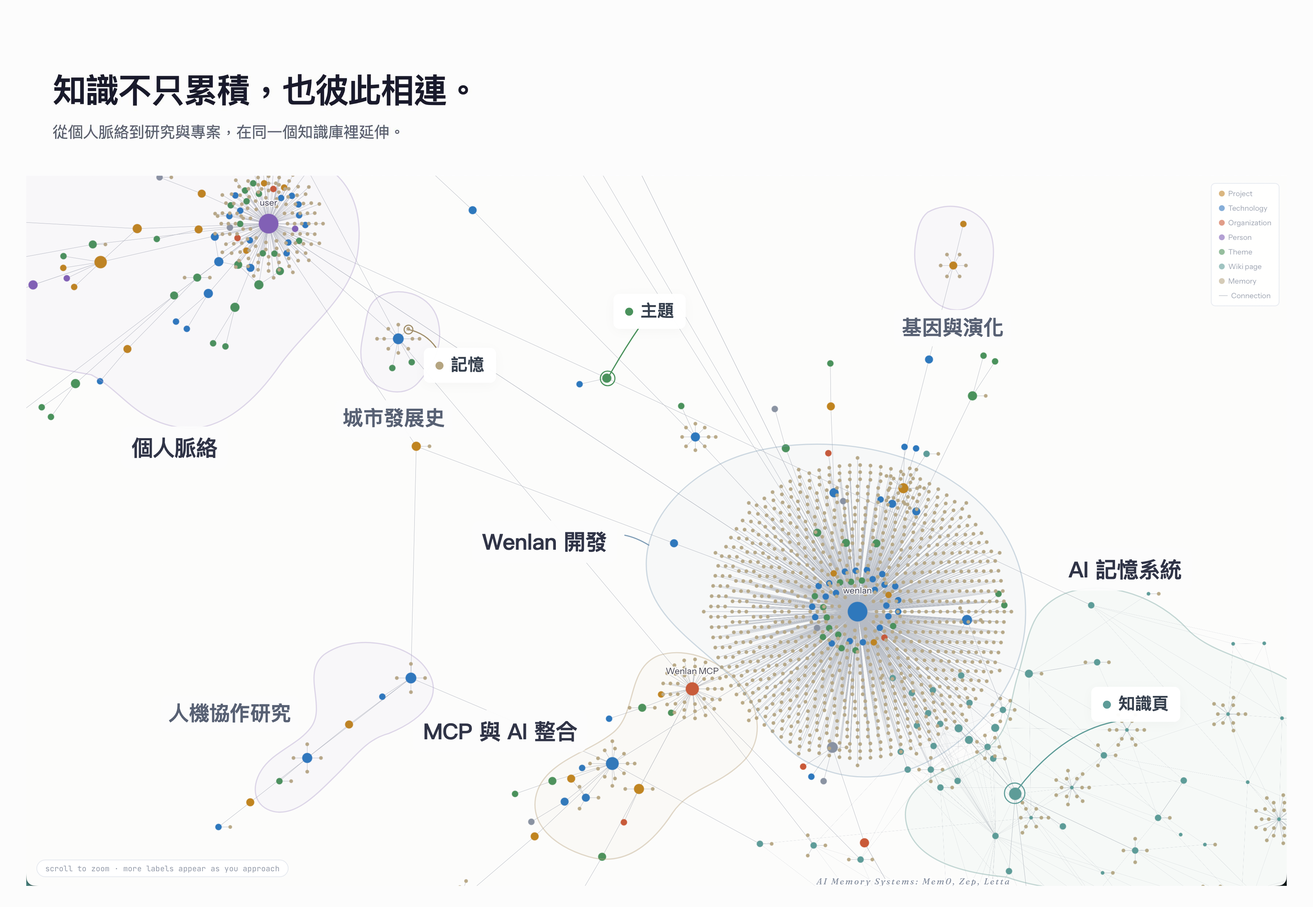
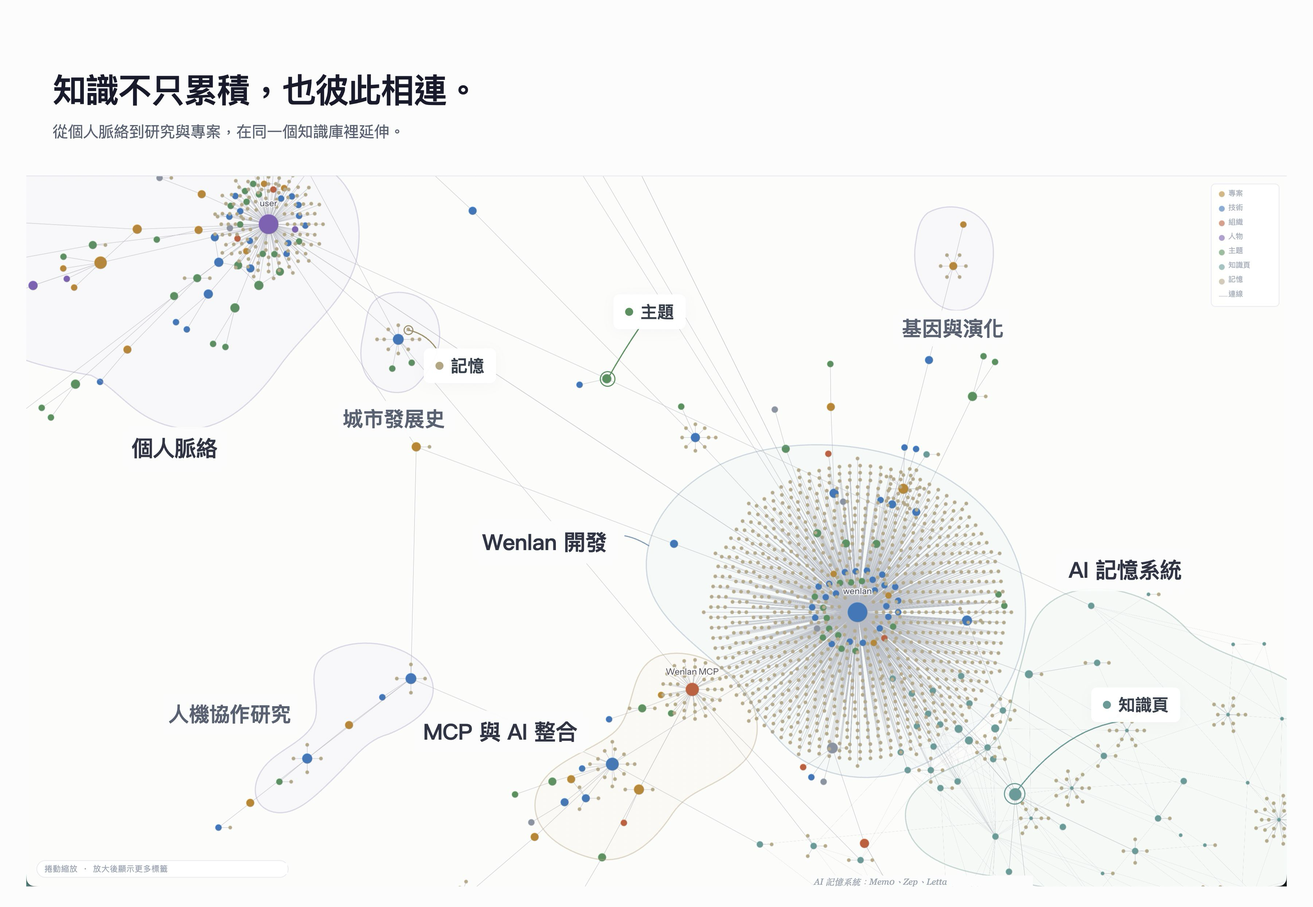
docs: localize README product visuals and refine copy

diff --git a/README.md b/README.md
@@ -30,11 +30,11 @@
 <!-- Replace the linked walkthrough when the separately produced release video is ready. -->
 <p align="center">
   <a href="https://github.com/user-attachments/assets/35f06749-00e5-484d-a9f4-5e462de8d11e">
-    <img src="./docs/assets/wenlan-personal-knowledge-zh-Hant.png" alt="Connected pages, memories, and sources in Wenlan" width="100%">
+    <img src="./docs/assets/wenlan-personal-knowledge.png" alt="Connected pages, memories, and sources in Wenlan" width="100%">
   </a>
   <br><a href="https://github.com/user-attachments/assets/35f06749-00e5-484d-a9f4-5e462de8d11e">▶ Watch the video</a>
 </p>
-<p>Composite of App views with demo data; the graph is illustrative, not a native three-column layout.</p>
+<p>Localized composite of App views with demo data; the graph is illustrative, not a native three-column layout.</p>
 
 <a id="quickstart"></a>
 <a id="start-in-30-seconds"></a>
@@ -66,7 +66,7 @@ Choose **Open notes** to enter Wenlan. Explore the sample from the welcome scree
 
 ### 3. Connect an AI tool when you want
 
-Use the Claude Code or Codex plugin, or connect Cursor, Claude Desktop, VS Code, or Gemini CLI over MCP ([setup guide](docs/setup-with-ai.md)). Your connected AI can use saved knowledge and write Pages without another local language model. Optional background organization and automatic Page updates need a separately configured [model](docs/setup-and-data.md#models).
+Use the Claude Code or Codex plugin, or connect Cursor, Claude Desktop, VS Code, or Gemini CLI over MCP ([setup guide](docs/setup-with-ai.md)). Your connected AI can use saved knowledge and write pages without another local language model. Optional background organization and automatic page updates need a separately configured [model](docs/setup-and-data.md#models).
 
 > Use my earlier notes to help me finish this task.
 
@@ -86,19 +86,19 @@ Start with one saved note or imported document. Ask the AI to cite what it uses,
 
 ## Organize scattered material into knowledge
 
-Edit **Markdown Pages with citations** and link related content through `[[wikilinks]]`. Follow a citation to check the original document, conversation, or saved Memory behind an idea.
+Edit **Markdown pages with citations** and link related content through `[[wikilinks]]`. Follow a citation to check the original document, conversation, or saved memory behind an idea.
 
 - **File and conversation imports:** Import Markdown, text, text-based PDFs, folders, and ChatGPT or Claude export ZIPs while retaining source references. Scanned PDFs need text extraction before import. Chat imports preserve a snapshot; registered file sources can refresh from disk.
 - **Read-only Obsidian connection:** Read an existing vault and refresh it on demand without modifying its files or syncing changes back.
-- **Quick Capture and atomic Memories:** Save one decision, lesson, or preference at a time in the app or through your AI, with its source.
-- **Knowledge graph:** Discover related topics through typed Entities, relations, and knowledge clusters (communities); a configured enrichment model links repeated mentions to the same entity (mention resolution).
+- **Quick Capture and atomic memories:** Save one decision, lesson, or preference at a time in the app or through your AI, with its source.
+- **Knowledge graph:** Discover related topics through typed entities, relations, and knowledge clusters (communities); a configured enrichment model links repeated mentions to the same entity (mention resolution).
 
 <a id="explore-your-personal-knowledge-graph"></a>
 
 <p align="center">
-  <img src="./docs/assets/wenlan-personal-graph-zh-Hant.png" alt="Wenlan knowledge graph with illustrative regions for personal interests, research, and development" width="100%">
+  <img src="./docs/assets/wenlan-personal-graph.png" alt="Wenlan knowledge graph with illustrative regions for personal interests, research, and development" width="100%">
 </p>
-<p>App nodes and connections; region names and boundaries are illustrative.</p>
+<p>App nodes and connections; translated labels and illustrative regions.</p>
 
 <a id="how-wenlan-works"></a>
 <a id="how-does-it-work"></a>
@@ -114,8 +114,8 @@ Edit **Markdown Pages with citations** and link related content through `[[wikil
 Reuse earlier findings and save new lessons. **Plugins** guide your AI on when to search and save; **MCP-only connections** provide tools the AI can call as needed or at your request.
 
 - **[Local hybrid retrieval](docs/technical-foundations.md#retrieval-pipeline):** Find exact terms and similar meaning with SQLite FTS5 and BGE embeddings, fused by weighted Reciprocal Rank Fusion (RRF); base search needs no API key.
-- **Graph-assisted ranking:** Rank related Memories higher when Entity links are available, with optional cross-encoder reranking to refine relevance.
-- **Plugin workflow:** Find context with `/recall`, save decisions with `/capture`, synthesize Pages with `/distill`, and leave progress and open questions with `/handoff` ([commands](plugin/skills/README.md)).
+- **Graph-assisted ranking:** Rank related memories higher when entity links are available, with optional cross-encoder reranking to refine relevance.
+- **Plugin workflow:** Find context with `/recall`, save decisions with `/capture`, synthesize pages with `/distill`, and leave progress and open questions with `/handoff` ([commands](plugin/skills/README.md)).
 - **Space-scoped retrieval:** Select a Space to limit returned knowledge to the relevant project or personal collection.
 
 <p align="center">
@@ -138,25 +138,25 @@ Experimental web access lets supported web clients search the whole library or o
 
 ## Keep knowledge current, with its history
 
-- **Steep background enrichment:** With a [configured model](docs/setup-and-data.md#models), prepare captured Memories for reuse with types, structured details, search cues, and graph links; Page synthesis is optional.
-- **[Revision review and history](docs/knowledge-guide.md#updates-and-history):** Compare Page versions and trace Memory replacements; automatic refresh updates eligible machine-maintained Pages directly and proposes revisions for Pages you edited.
-- **Wiki export:** Export eligible Pages as an Open Knowledge Format (OKF) wiki.
+- **Steep background enrichment:** With a [configured model](docs/setup-and-data.md#models), prepare captured memories for reuse with types, structured details, search cues, and graph links; page synthesis is optional.
+- **[Revision review and history](docs/knowledge-guide.md#updates-and-history):** Compare page versions and trace memory replacements; automatic refresh updates eligible machine-maintained pages directly and proposes revisions for pages you edited.
+- **Wiki export:** Export eligible pages as an Open Knowledge Format (OKF) wiki.
 - **Choose the model runtime:** Run enrichment and synthesis with on-device Qwen (llama.cpp), local OpenAI-compatible servers such as Ollama or LM Studio, or configured cloud providers.
 
 <p align="center">
-  <img src="./docs/assets/wenlan-updates-history-zh-Hant.png" alt="Illustrative flow: a finding in a source document updates memory from V1 to V2, then informs a knowledge page that is either updated automatically or sent for review." width="100%">
+  <img src="./docs/assets/wenlan-updates-history.png" alt="Illustrative flow: a finding in a source document updates memory from V1 to V2, then informs a knowledge page that is either updated automatically or sent for review." width="100%">
 </p>
-<p>App views with demo data; connections and labels are illustrative.</p>
+<p>Localized App-view composite with demo data; connections are illustrative.</p>
 
-Automatic refresh rejects drafts without enough citations; direct file edits and forced regeneration follow different review rules.
+Automatic refresh rejects drafts without enough citations.
 
 <a id="architecture"></a>
 
 ## Architecture
 
-**One local knowledge base.** App, CLI, and connected AI tools read and write through Wenlan’s local service. Pages are Markdown files; Memories, relationships, and search indexes live in local libSQL.
+**One local knowledge base.** App, CLI, and connected AI tools read and write through Wenlan’s local service. Pages are Markdown files; memories, relationships, and search indexes live in local libSQL.
 
-**Updates follow citations.** When a cited Source or Memory changes or is removed in Wenlan, evidence tracking marks affected Pages. With background AI enabled and a model available, eligible Pages refresh under the update and review rules.
+**Updates follow citations.** When a cited source or memory changes or is removed in Wenlan, evidence tracking marks affected pages. With background AI enabled and a model available, eligible pages refresh under the update and review rules.
 
 <p align="center">
   <img src="./docs/assets/wenlan-architecture.png" alt="Architecture overview: App and AI tools share a local knowledge base, with optional background enrichment models." width="100%">

diff --git a/README.es-ES.md b/README.es-ES.md
@@ -1,4 +1,4 @@
-<!-- README_SYNC: source=README.md sha256=e8a500b455136eae8a677b856b81fea50a11c1f07074592b8cda08678daf7fe2 -->
+<!-- README_SYNC: source=README.md sha256=f927704bc4df94ee55e6503a39f280bbc0958551c832cb2db0d235d10dfb5285 -->
 
 <p align="center">
   <picture>
@@ -68,7 +68,7 @@ Elige **Open notes** para entrar en Wenlan. Explora el ejemplo de bienvenida o c
 
 ### 3. Conecta una herramienta de IA cuando quieras
 
-Usa el plugin de Claude Code o Codex, o conecta Cursor, Claude Desktop, VS Code o Gemini CLI mediante MCP ([guía de configuración](docs/setup-with-ai.md)). Tu IA conectada puede usar los conocimientos guardados y redactar Páginas sin otro modelo de lenguaje local. La organización en segundo plano y las actualizaciones automáticas opcionales requieren un [modelo configurado por separado](docs/setup-and-data.es-ES.md#models).
+Usa el plugin de Claude Code o Codex, o conecta Cursor, Claude Desktop, VS Code o Gemini CLI mediante MCP ([guía de configuración](docs/setup-with-ai.md)). Tu IA conectada puede usar los conocimientos guardados y redactar páginas sin otro modelo de lenguaje local. La organización en segundo plano y las actualizaciones automáticas opcionales requieren un [modelo configurado por separado](docs/setup-and-data.es-ES.md#models).
 
 > Usa mis notas anteriores para ayudarme a terminar esta tarea.
 
@@ -89,12 +89,12 @@ Empieza con una nota guardada o un documento importado. Pide a la IA que cite lo
 
 ## Organiza la información dispersa en conocimiento
 
-Edita **Páginas Markdown con citas** y enlaza contenido relacionado mediante `[[wikilinks]]`. Sigue una cita para consultar el documento, la conversación o la Memoria que respalda una idea.
+Edita **páginas Markdown con citas** y enlaza contenido relacionado mediante `[[wikilinks]]`. Sigue una cita para consultar el documento, la conversación o la memoria que respalda una idea.
 
 - **Importación de archivos y conversaciones:** Importa Markdown, texto, PDF con texto seleccionable, carpetas y ZIP de ChatGPT o Claude conservando las referencias a sus fuentes. Los PDF escaneados necesitan extracción de texto antes de importarlos. Los chats importados conservan una instantánea; las fuentes de archivos registradas se pueden actualizar desde el disco.
 - **Conexión de solo lectura con Obsidian:** Lee una bóveda existente y actualízala bajo demanda sin modificar sus archivos ni sincronizar cambios de vuelta.
-- **Quick Capture y Memorias atómicas:** Guarda una decisión, lección o preferencia cada vez, desde la app o mediante tu IA, conservando su fuente.
-- **Grafo de conocimiento:** Descubre temas relacionados mediante Entidades tipadas, relaciones y grupos de conocimiento (comunidades); un modelo de enriquecimiento configurado vincula menciones repetidas a la misma entidad (resolución de menciones).
+- **Quick Capture y memorias atómicas:** Guarda una decisión, lección o preferencia cada vez, desde la app o mediante tu IA, conservando su fuente.
+- **Grafo de conocimiento:** Descubre temas relacionados mediante entidades tipadas, relaciones y grupos de conocimiento (comunidades); un modelo de enriquecimiento configurado vincula menciones repetidas a la misma entidad (resolución de menciones).
 
 <a id="explora-tu-grafo-de-conocimiento-personal"></a>
 
@@ -118,8 +118,8 @@ Edita **Páginas Markdown con citas** y enlaza contenido relacionado mediante `[
 Reutiliza hallazgos anteriores y guarda nuevas lecciones. Los **plugins** orientan a tu IA sobre cuándo buscar y guardar; las **conexiones solo por MCP** ofrecen herramientas que la IA puede usar según la tarea o cuando se lo pidas.
 
 - **[Búsqueda híbrida local](docs/technical-foundations.md#retrieval-pipeline):** Encuentra términos exactos y significados similares con SQLite FTS5 y embeddings BGE, combinados mediante Reciprocal Rank Fusion (RRF) ponderado; la búsqueda base no requiere clave API.
-- **Clasificación asistida por el grafo:** Prioriza Memorias relacionadas cuando hay enlaces entre Entidades, con reranking cross-encoder opcional para afinar la relevancia.
-- **Flujo con el plugin:** Busca contexto con `/recall`, guarda decisiones con `/capture`, sintetiza Páginas con `/distill` y conserva el progreso y las preguntas pendientes con `/handoff` ([comandos](plugin/skills/README.md)).
+- **Clasificación asistida por el grafo:** Prioriza memorias relacionadas cuando hay enlaces entre entidades, con reranking cross-encoder opcional para afinar la relevancia.
+- **Flujo con el plugin:** Busca contexto con `/recall`, guarda decisiones con `/capture`, sintetiza páginas con `/distill` y conserva el progreso y las preguntas pendientes con `/handoff` ([comandos](plugin/skills/README.md)).
 - **Búsqueda por Espacio:** Selecciona un Espacio para limitar el conocimiento devuelto al proyecto o colección personal pertinente.
 
 <p align="center">
@@ -143,9 +143,9 @@ El acceso web experimental permite que clientes compatibles busquen en toda la b
 
 ## Actualiza el conocimiento, conserva su historial
 
-- **Enriquecimiento en segundo plano con Steep:** Con un [modelo configurado](docs/setup-and-data.es-ES.md#models), prepara Memorias para reutilizarlas con tipos, datos estructurados, pistas de búsqueda y enlaces al grafo; la síntesis de Páginas es opcional.
-- **[Revisión e historial](docs/knowledge-guide.es-ES.md#updates-and-history):** Compara versiones de Páginas y sigue las sustituciones de Memorias; la actualización automática modifica directamente las Páginas mantenidas por la IA que cumplen los requisitos y propone revisiones para las que hayas editado.
-- **Exportación de wikis:** Exporta las Páginas aptas como una wiki Open Knowledge Format (OKF).
+- **Enriquecimiento en segundo plano con Steep:** Con un [modelo configurado](docs/setup-and-data.es-ES.md#models), prepara memorias para reutilizarlas con tipos, datos estructurados, pistas de búsqueda y enlaces al grafo; la síntesis de páginas es opcional.
+- **[Revisión e historial](docs/knowledge-guide.es-ES.md#updates-and-history):** Compara versiones de páginas y sigue las sustituciones de memorias; la actualización automática modifica directamente las páginas mantenidas por la IA que cumplen los requisitos y propone revisiones para las que hayas editado.
+- **Exportación de wikis:** Exporta las páginas aptas como una wiki Open Knowledge Format (OKF).
 - **Elige cómo ejecutar los modelos:** Ejecuta el enriquecimiento y la síntesis con Qwen en el dispositivo (llama.cpp), servidores locales compatibles con OpenAI como Ollama o LM Studio, o proveedores de nube configurados.
 
 <p align="center">
@@ -153,15 +153,15 @@ El acceso web experimental permite que clientes compatibles busquen en toda la b
 </p>
 <p>Vistas de la app con datos de ejemplo; conexiones y etiquetas ilustrativas.</p>
 
-La actualización automática rechaza borradores con citas insuficientes; las ediciones directas de archivos y la regeneración forzada siguen otras reglas de revisión.
+La actualización automática rechaza los borradores con citas insuficientes.
 
 <a id="architecture"></a>
 
 ## Arquitectura
 
-**Una base local compartida.** La app, la CLI y las herramientas de IA conectadas leen y escriben mediante el servicio local de Wenlan. Las Páginas son archivos Markdown; Memorias, relaciones e índices de búsqueda residen en libSQL local.
+**Una base local compartida.** La app, la CLI y las herramientas de IA conectadas leen y escriben mediante el servicio local de Wenlan. Las páginas son archivos Markdown; memorias, relaciones e índices de búsqueda residen en libSQL local.
 
-**Las actualizaciones siguen las citas.** Cuando una Fuente o Memoria cambia o se elimina en Wenlan, el seguimiento de evidencias marca las Páginas afectadas. Con la IA en segundo plano activada y un modelo disponible, se actualizan según las reglas de actualización y revisión.
+**Las actualizaciones siguen las citas.** Cuando una fuente o memoria cambia o se elimina en Wenlan, el seguimiento de evidencias marca las páginas afectadas. Con la IA en segundo plano activada y un modelo disponible, se actualizan según las reglas de actualización y revisión.
 
 <p align="center">
   <img src="./docs/assets/wenlan-architecture-es-ES.png" alt="Vista de la arquitectura: la app y las herramientas de IA comparten una base de conocimiento local, con modelos opcionales para la organización en segundo plano." width="100%">

diff --git a/docs/assets/README.md b/docs/assets/README.md
@@ -19,18 +19,20 @@ See [screenshots and provenance](screenshots/README.md). Product captures use fi
 
 ## Approved README compositions
 
-The AI-work illustration is fully localized for English, Traditional Chinese, Simplified Chinese, and Spanish, including the Claude conversations, retrieval cards, graph labels, and finished homepage. The other three approved figures remain unchanged in Traditional Chinese, with localized alt text and captions. Native demo UI remains in its captured language.
+The AI-work illustration is fully localized for English, Traditional Chinese, Simplified Chinese, and Spanish, including the Claude conversations, retrieval cards, graph labels, and finished homepage. The panorama, personal graph, and update-history compositions now have English, Traditional Chinese, and Simplified Chinese versions. Their approved composition, demo content, nodes, and relationships are retained. Localized versions translate captured text using the original DOM/styles and text layers; they are localized composites, not newly captured native-language UI. Spanish versions of these three figures are deferred.
 
 The final consistency pass aligns the three explanatory titles (46px, semibold, shared left edge), preserves native type icons and colors, and moves provenance footnotes into readable README captions. It preserves approved body composition and content. The video cover uses a shortened demo article captured in the App, an enlarged native memory preview, and a larger native directory crop. Graph labels and spacing are balanced for README width; provenance stays in the caption beneath the image.
 
 | Asset | Export | Provenance |
 | --- | --- | --- |
-| `wenlan-personal-knowledge-zh-Hant.png` | 6000 × 3600 | Actual App directory/header captures and a high-resolution render of the actual editor and memory-preview DOM/styles, combined with an editorial graph layout. All 33 graph nodes and 80 typed relationships retain their verified demo identities. Not a native three-column screen; App behavior is unchanged. |
-| `wenlan-personal-graph-zh-Hant.png` | 3600 × 2488 | Actual graph capture; the approved graph body is pixel-identical. Region names and boundaries are editorial annotations, not verified source-node identities or detected communities. |
+| `wenlan-personal-knowledge.png`, `-zh-Hant.png`, `-zh-Hans.png` | 6000 × 3600 | Actual App directory/header captures and a high-resolution render of the actual editor and memory-preview DOM/styles, combined with an editorial graph layout. All 33 graph nodes and 80 typed relationships retain their verified demo identities. Not a native three-column screen; App behavior is unchanged. |
+| `wenlan-personal-graph.png`, `-zh-Hant.png`, `-zh-Hans.png` | 3600 × 2488 | Actual graph capture; the original nodes and connections are preserved, with localized legend and text layers. Region names and boundaries are editorial annotations, not verified source-node identities or detected communities. |
 | `wenlan-knowledge-to-work.png`, `-zh-Hant.png`, `-zh-Hans.png`, `-es-ES.png` | 3600 × 2320 each | Fictional Claude conversations and FORMA homepage, using the film’s unchanged hero-image asset. Keyword, semantic, and graph paths point to the matching headline, primary action, and image. Concept illustration, not a measured comparison; Wenlan context complements Claude’s native capabilities. |
-| `wenlan-updates-history-zh-Hant.png` | 3600 × 2080 | Actual memory, source, page, and revision captures with demo data; connecting lines and editorial labels are illustrative. Shows automatic updates to untouched AI-organized pages and per-page review for user-created or edited pages. |
+| `wenlan-updates-history.png`, `-zh-Hant.png`, `-zh-Hans.png` | 3600 × 2080 | Actual memory, source, page, and revision captures with demo data; connecting lines and editorial labels are illustrative. Shows automatic updates to untouched AI-organized pages and per-page review for user-created or edited pages. |
 
[1 lines of base64/hex data omitted]
+
+The localization sources are retained in the `readme-locales-final` production package. Panorama exports are 6000 × 3600; graph exports are 3600 × 2488; update-history exports are 3600 × 2080. Each was inspected at 900px reading width. The Traditional Chinese panorama and history remain byte-identical to their approved versions; its graph changes only the native English legend and footer text to Traditional Chinese. Longer translations wrap inside the existing composition.
 
 Composition sources: `cover-polish-title` (6000px `cover-polish-hd` master; approved `cover-polish-v2` layout), `real-graph-polish-v7`, `ai-work-film-case-v7` / `ai-work-film-case-v7-localized`, and `lifecycle-polish-v26`, retained in their corresponding production packages, including `cover-polish-title`, `cover-polish-hd`, `readme-final-consistency`, and `ai-work-film-case-v7-localized`. The final title pass reduces only the article heading from 28.16px to 26px; every pixel outside that heading area is identical to the 6000px master. The cover package includes read-only snapshots of the actual editor and hover-preview DOM/styles, original pseudo-element icon CSS, the approved composition, export instructions, and SHA-256 verification. Text and graph labels are rendered at high resolution rather than enlarged from the former small article crop. Heading font fallback is normalized to match the approved capture. Directory/header raster inputs remain unchanged; their detail is limited by the original captures. Browser capture uses JPEG transport; the published PNG adds no further lossy encoding. No generative enhancement or invented UI content is used in the product cover. The AI-work comparison remains an authored concept as noted above.
 
@@ -39,12 +41,18 @@ The older `wenlan-lifecycle*` and `wenlan-knowledge-network*` illustrations and 
 ### Current export hashes
 
[14 lines of base64/hex data omitted]
 
 ## Architecture overview
 

diff --git a/README.zh-Hans.md b/README.zh-Hans.md
@@ -1,4 +1,4 @@
-<!-- README_SYNC: source=README.md sha256=e8a500b455136eae8a677b856b81fea50a11c1f07074592b8cda08678daf7fe2 -->
+<!-- README_SYNC: source=README.md sha256=f927704bc4df94ee55e6503a39f280bbc0958551c832cb2db0d235d10dfb5285 -->
 
 <p align="center">
   <picture>
@@ -32,11 +32,11 @@
 <!-- Replace the linked walkthrough when the separately produced release video is ready. -->
 <p align="center">
   <a href="https://github.com/user-attachments/assets/2c91437c-59f5-44af-a5e1-da7627b921ad">
-    <img src="./docs/assets/wenlan-personal-knowledge-zh-Hant.png" alt="Wenlan 中彼此连接的页面、记忆与来源" width="100%">
+    <img src="./docs/assets/wenlan-personal-knowledge-zh-Hans.png" alt="Wenlan 中彼此连接的页面、记忆与来源" width="100%">
   </a>
   <br><a href="https://github.com/user-attachments/assets/2c91437c-59f5-44af-a5e1-da7627b921ad">▶ 观看影片</a>
 </p>
-<p>实机画面与示范数据的合成图；图谱为示意，非 App 原生三栏版面。</p>
+<p>实机画面与示范数据的翻译合成图；图谱为示意，非 App 原生三栏版面。</p>
 
 <a id="quickstart"></a>
 <a id="start-in-30-seconds"></a>
@@ -99,9 +99,9 @@ Claude Code 和 Codex 可使用插件；Cursor、Claude Desktop、VS Code 和 Ge
 <a id="探索你的个人知识图谱"></a>
 
 <p align="center">
-  <img src="./docs/assets/wenlan-personal-graph-zh-Hant.png" alt="Wenlan 实机知识图谱，搭配个人兴趣、研究与开发的区域示意" width="100%">
+  <img src="./docs/assets/wenlan-personal-graph-zh-Hans.png" alt="Wenlan 实机知识图谱，搭配个人兴趣、研究与开发的区域示意" width="100%">
 </p>
-<p>实机节点与连线；区域名称与范围为示意。</p>
+<p>保留实机节点与连线；文字经翻译，区域名称与范围为示意。</p>
 
 <a id="how-wenlan-works"></a>
 <a id="how-does-it-work"></a>
@@ -115,7 +115,7 @@ Claude Code 和 Codex 可使用插件；Cursor、Claude Desktop、VS Code 和 Ge
 
 ## 让 AI 接续已有知识
 
-沿用旧知识，保存新经验。**插件**提供何时搜索和保存的指引；**仅连接 MCP** 则提供工具，由 AI 按任务需要或你的要求调用。
+用上已有知识，保存新经验。**插件**提供何时搜索和保存的指引；**仅连接 MCP** 则提供工具，由 AI 按任务需要或你的要求调用。
 
 - **[本地混合检索（Hybrid Retrieval）](docs/technical-foundations.md#retrieval-pipeline)**：用 SQLite FTS5 找出相同词句、BGE 向量找出相近语义，再以加权 RRF 合并排名；基础搜索无需 API key。
 - **图谱辅助排序**：有可用的实体连接时，提高相关记忆的排名，也可选用 cross-encoder reranking 精排结果。
@@ -149,11 +149,11 @@ Claude Code 和 Codex 可使用插件；Cursor、Claude Desktop、VS Code 和 Ge
 - **自由选择模型运行方式**：用设备端 Qwen（llama.cpp）、Ollama 或 LM Studio 等 OpenAI 兼容本地服务，或已配置的云端提供商运行整理与页面合成。
 
 <p align="center">
-  <img src="./docs/assets/wenlan-updates-history-zh-Hant.png" alt="示意流程：文件来源中的发现将记忆由 V1 更新为 V2，再影响自动更新或待审修订的知识页。" width="100%">
+  <img src="./docs/assets/wenlan-updates-history-zh-Hans.png" alt="示意流程：文件来源中的发现将记忆由 V1 更新为 V2，再影响自动更新或待审修订的知识页。" width="100%">
 </p>
-<p>实机画面搭配示范数据；连线与标注为示意。</p>
+<p>实机画面的翻译合成图，搭配示范数据；连线为示意。</p>
 
-自动更新若引用不足，就会拒绝草稿；直接编辑文件和强制重新生成遵循不同的审核规则。
+自动更新会拒绝引用不足的草稿。
 
 <a id="architecture"></a>
 

diff --git a/README.zh-Hant.md b/README.zh-Hant.md
@@ -1,4 +1,4 @@
-<!-- README_SYNC: source=README.md sha256=e8a500b455136eae8a677b856b81fea50a11c1f07074592b8cda08678daf7fe2 -->
+<!-- README_SYNC: source=README.md sha256=f927704bc4df94ee55e6503a39f280bbc0958551c832cb2db0d235d10dfb5285 -->
 
 <p align="center">
   <picture>
@@ -101,7 +101,7 @@ Claude Code 與 Codex 可使用插件；Cursor、Claude Desktop、VS Code 與 Ge
 <p align="center">
   <img src="./docs/assets/wenlan-personal-graph-zh-Hant.png" alt="Wenlan 實機知識圖譜，搭配個人興趣、研究與開發的區域示意" width="100%">
 </p>
-<p>實機節點與連線；區域名稱與範圍為示意。</p>
+<p>保留實機節點與連線；文字經翻譯，區域名稱與範圍為示意。</p>
 
 <a id="how-wenlan-works"></a>
 <a id="how-does-it-work"></a>
@@ -115,7 +115,7 @@ Claude Code 與 Codex 可使用插件；Cursor、Claude Desktop、VS Code 與 Ge
 
 ## 讓 AI 接續已有知識
 
-沿用舊知識，保存新經驗。**插件**提供何時搜尋與保存的指引；**僅連接 MCP** 則提供工具，由 AI 按任務需要或你的要求呼叫。
+用上已有知識，保存新經驗。**插件**提供何時搜尋與保存的指引；**僅連接 MCP** 則提供工具，由 AI 按任務需要或你的要求呼叫。
 
 - **[本地混合檢索（Hybrid Retrieval）](docs/technical-foundations.md#retrieval-pipeline)**：用 SQLite FTS5 找出相同詞句、BGE 向量找出相近語意，再以加權 RRF 合併排名；基礎搜尋不需 API key。
 - **圖譜輔助排序**：有可用的實體連結時，提高相關記憶的排名，也可選用 cross-encoder reranking 精排結果。
@@ -153,7 +153,7 @@ Claude Code 與 Codex 可使用插件；Cursor、Claude Desktop、VS Code 與 Ge
 </p>
 <p>實機畫面搭配示範資料；連線與標註為示意。</p>
 
-自動更新若引用不足，就會拒絕草稿；直接改檔與強制重建遵循不同的審核規則。
+自動更新會拒絕引用不足的草稿。
 
 <a id="architecture"></a>
 
